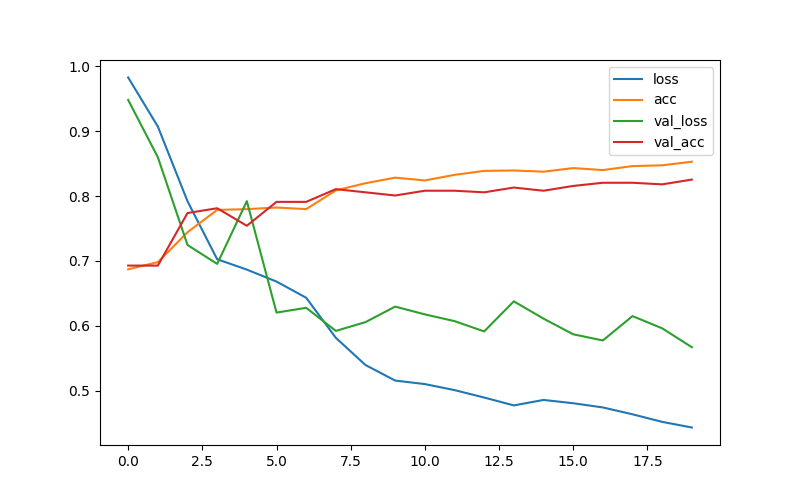
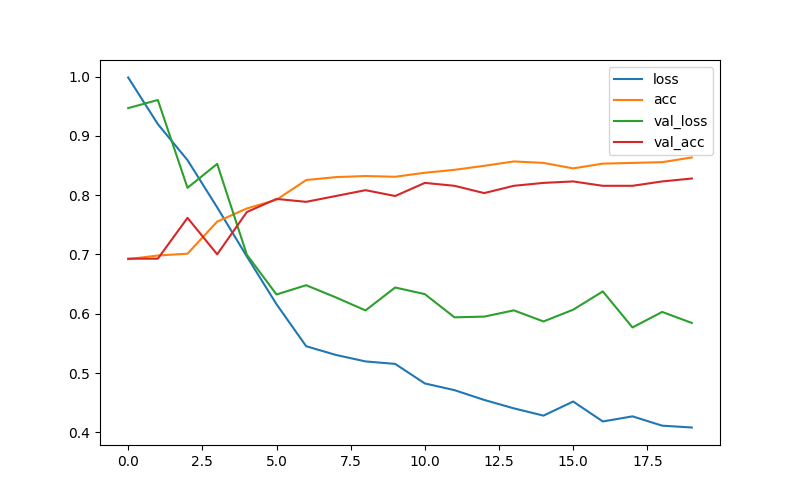
save the best weights

diff --git a/models/ConvLSTM2D_org_data.py b/models/ConvLSTM2D_org_data.py
@@ -6,6 +6,7 @@ import argparse
 
 from keras import layers, utils, models
 from sklearn.metrics import f1_score, precision_score, recall_score, confusion_matrix
+from keras.callbacks import ModelCheckpoint
 
 import sys
 sys.path.append("..")
@@ -65,7 +66,6 @@ if __name__ == "__main__":
     model_path, loss_img, acc_img, precision, recall, f1 = cfg.model_parameters_set_process_task("ConvLSTM2D_org_data", args.is_org_data_only_process)
 
     # callbacks = [keras.callbacks.EarlyStopping(patience=cfg.patience, restore_best_weights=True)]
-    from keras.callbacks import ModelCheckpoint
 
     checkpoint = ModelCheckpoint(model_path, monitor='val_acc', verbose=1, save_best_only=True,
                                  mode='max')
@@ -78,9 +78,8 @@ if __name__ == "__main__":
     X_test = X_test.reshape((X_test.shape[0], cfg.steps, 1, cfg.length, X_train.shape[2]))
      # one-hot encoder
     y_train, y_test = utils.np_utils.to_categorical(y_train, num_classes=4), utils.np_utils.to_categorical(y_test, num_classes=4)
-    
 
-    # construct Conv1D
+    # construct Conv2D
     model, history = ConvLSTM2D(X_train, y_train, X_test, y_test, cfg, features, outputs, callbacks_list)
 
     # save model
@@ -93,6 +92,7 @@ if __name__ == "__main__":
     model = keras.models.load_model(model_path)
 
     y_pred1 = model.predict(X_test)
+    y_test = np.argmax(y_test, axis=1)
     y_pred = np.argmax(y_pred1, axis=1)
 
     # save f1, precision, and recall scores

diff --git a/configure.py b/configure.py
@@ -19,7 +19,7 @@ class Config:
         self.num_class = 4
         self.lr = 0.0001
         self.loss = 'sparse_categorical_crossentropy'  
-        self.epochs = 200
+        self.epochs = 20
         self.batch_size = 32
         self.patience = 30
 
